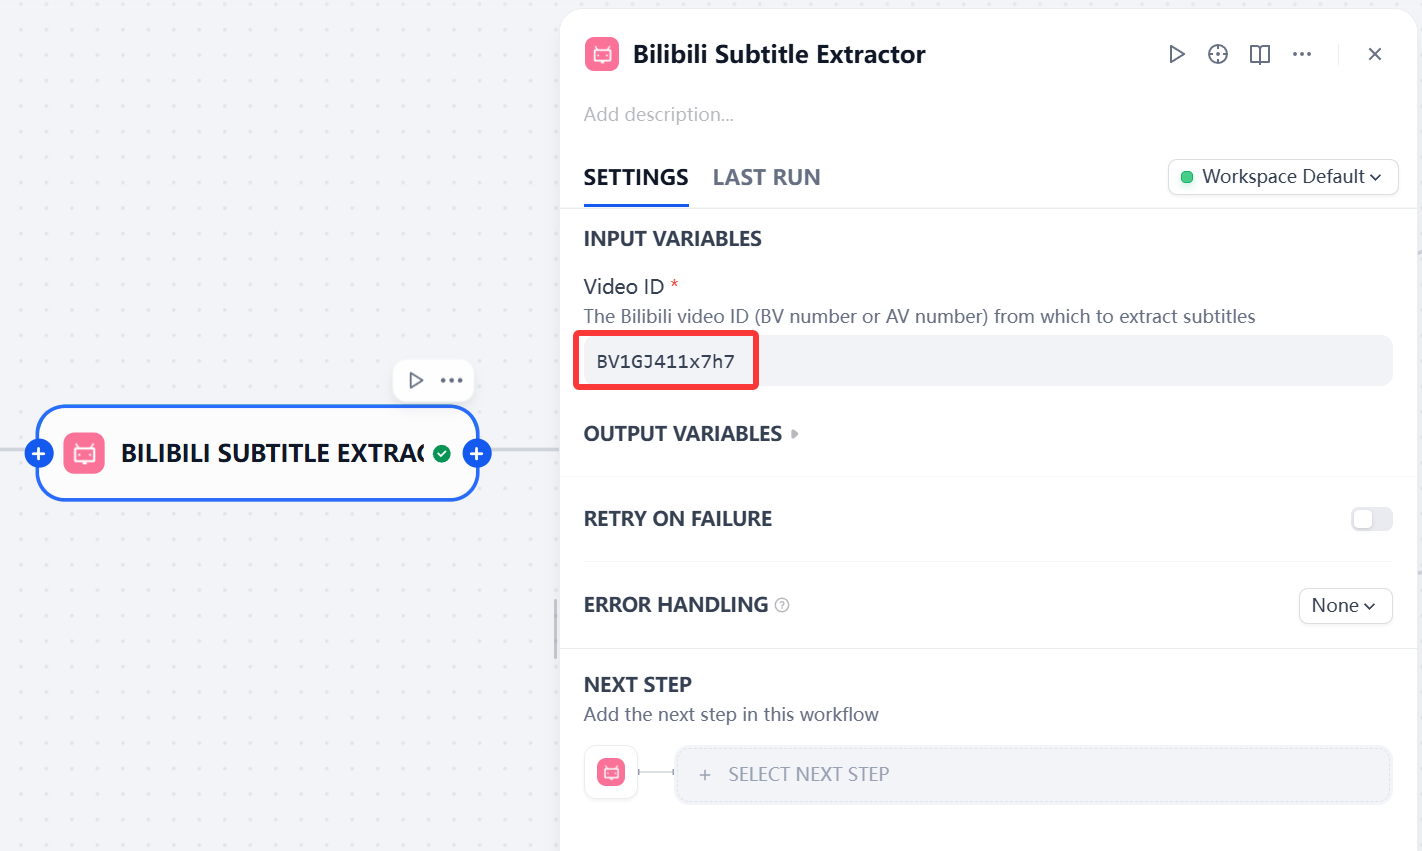
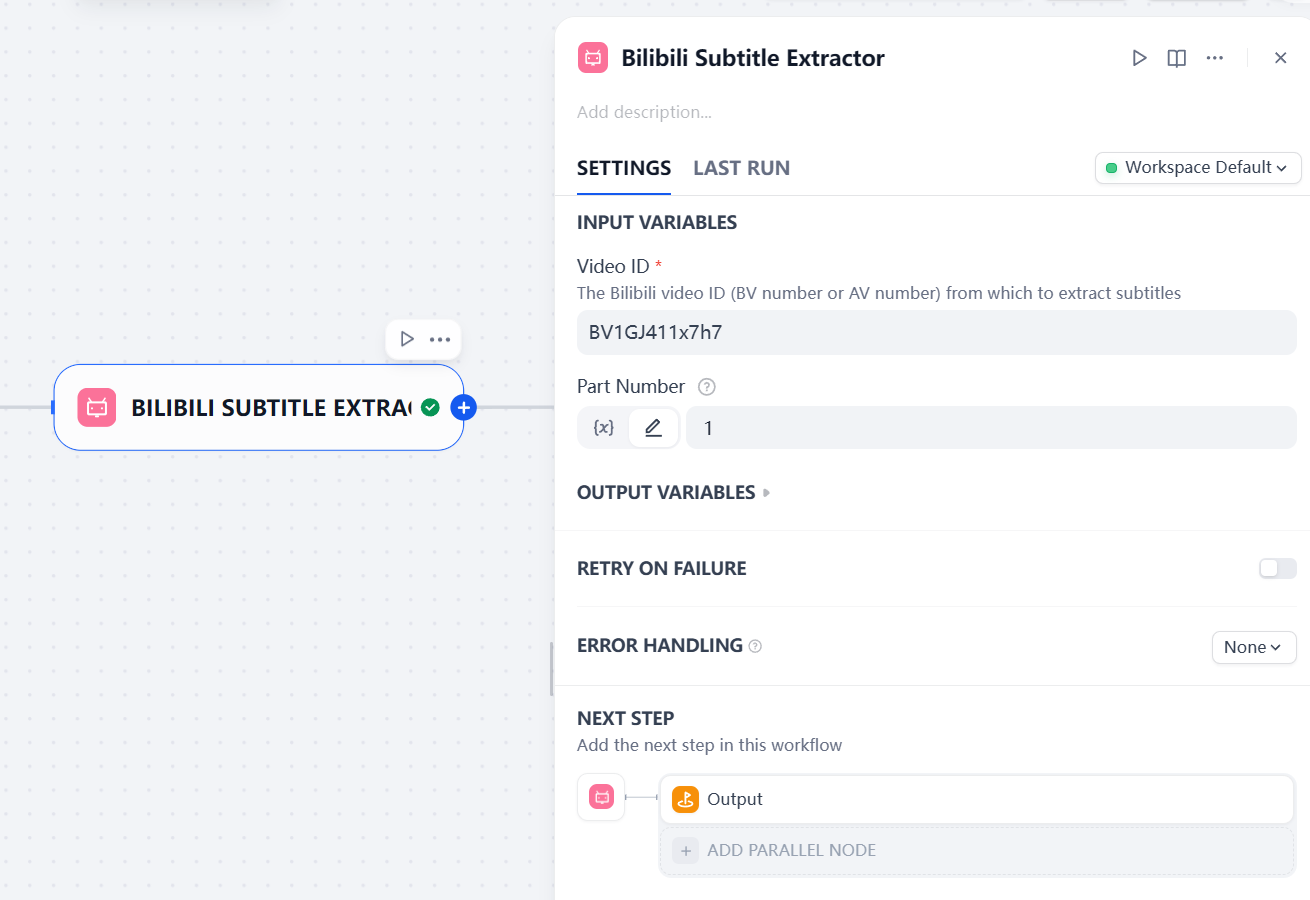
添加part参数用于支持分P视频字幕的获取

diff --git a/tools/bilibili_subtitle_plugin.py b/tools/bilibili_subtitle_plugin.py
@@ -31,6 +31,7 @@ class BilibiliSubtitlePluginTool(Tool):
         Args:
             tool_parameters: Dictionary containing tool input parameters:
                 - video_id (str): Bilibili video ID (BV number or AV number)
+                - part (int): Part number of the video (default is 1)
 
         Yields:
             ToolInvokeMessage: Message containing the extracted subtitle content
@@ -52,7 +53,8 @@ class BilibiliSubtitlePluginTool(Tool):
         # 2. Get tool input parameters
         logger.info("Getting tool input parameters")
         video_id = tool_parameters.get("video_id", "")
-        logger.info(f"Video ID: {video_id}")
+        part = tool_parameters.get("part", 1)
+        logger.info(f"Video ID: {video_id}, Part: {part}")
 
         if not video_id:
             logger.error("Video ID is empty")
@@ -85,16 +87,16 @@ class BilibiliSubtitlePluginTool(Tool):
             
             # Get subtitle text using the enhanced tool
             logger.info("Getting video subtitle")
-            subtitle_text = enhanced_tool.get_video_subtitle(video_id)
+            subtitle_text = enhanced_tool.get_video_subtitle(video_id, page=part)
             
             if not subtitle_text:
                 logger.warning(f"No available subtitles found for video '{video_title}'")
                 raise Exception(f"Video '{video_title}' has no available subtitles.")
             
             # Get subtitle info to determine language
-            pages = enhanced_tool.get_video_pages(video_id)
-            if pages and len(pages) > 0:
-                cid = pages[0].get('cid')
+            parts = enhanced_tool.get_video_pages(video_id)
+            if parts and len(parts) > 0:
+                cid = parts[part - 1].get('cid') if part <= len(parts) else parts[0].get('cid')
                 subtitle_info = enhanced_tool.get_subtitle_info(video_id, cid)
                 subtitle_language = "Unknown Language"
                 if subtitle_info and len(subtitle_info) > 0:

diff --git a/utils/bilibili_enhanced_tool.py b/utils/bilibili_enhanced_tool.py
@@ -540,7 +540,13 @@ def main():
                 print(f"✓ 视频标题: {video_info['title']}")
                 print(f"✓ 视频作者: {video_info['owner']['name']}")
                 print(f"✓ 视频时长: {video_info['duration']}秒")
-            
+
+            # 获取分P信息
+            pages = tool.get_video_pages(test_video_id)
+            print(f"视频分P数量: {len(pages) if pages else 0}")
+            if pages:
+                print(f"第一个分P的cid: {pages[0].get('cid')}")
+
             # 尝试获取字幕
             subtitle_text = tool.get_video_subtitle(test_video_id)
             if subtitle_text:
